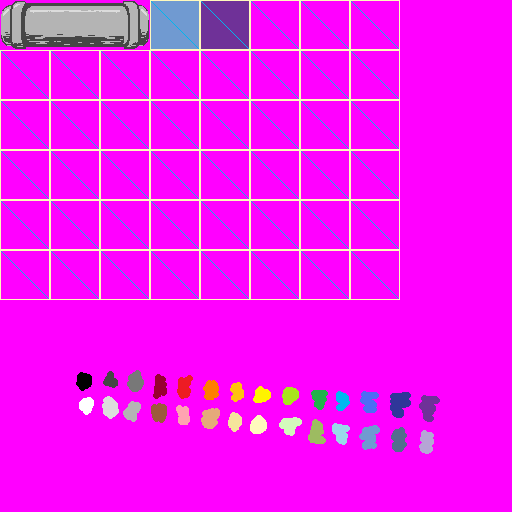
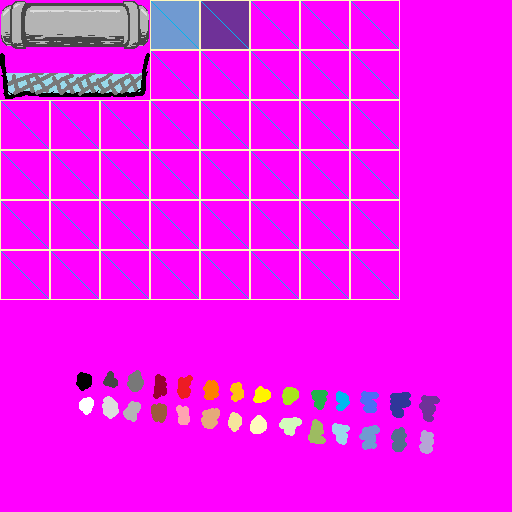
Slimmer moving platform sprite (with guardrails)

Changed region(s): [[0.0, 0.0938, 0.3125, 0.2188]]

diff --git a/main.js b/main.js
@@ -832,7 +832,7 @@ class Platforms {
     this.batch.reset();
     for (let obj of this.objs) {
       this.batch.pushFrame(lerp(dt, obj.x, obj.lastX),
-                           lerp(dt, obj.y, obj.lastY), 0, TILE_SIZE * 3,
+                           lerp(dt, obj.y, obj.lastY), 10, TILE_SIZE * 3,
                            TILE_SIZE, TILE_SIZE * 3 / TEX_WIDTH,
                            TILE_SIZE / TEX_WIDTH);
     }
@@ -986,7 +986,7 @@ class Smiley {
         }
 
         // Riding on top of the platform
-        let seg = {x0: ox + 0, y0: oy + 0, x1: ox + w, y1 : oy + 0};
+        let seg = {x0: ox + 0, y0: oy + 20, x1: ox + w, y1 : oy + 20};
         if (handleSeg(seg)) {
           let dx = obj.x - obj.lastX;
           let dy = obj.y - obj.lastY;
